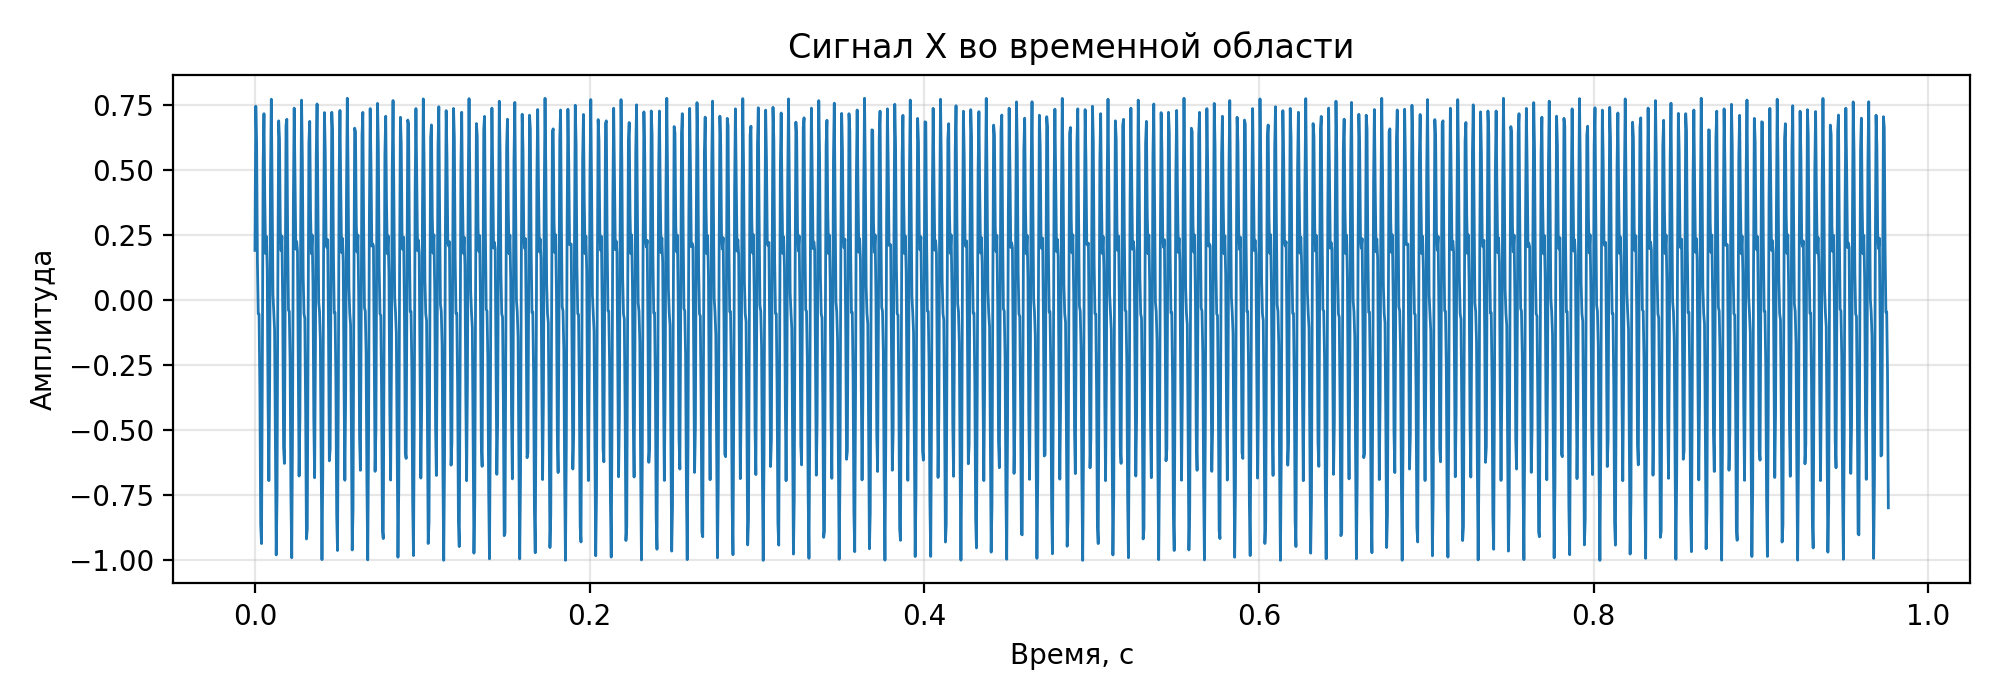
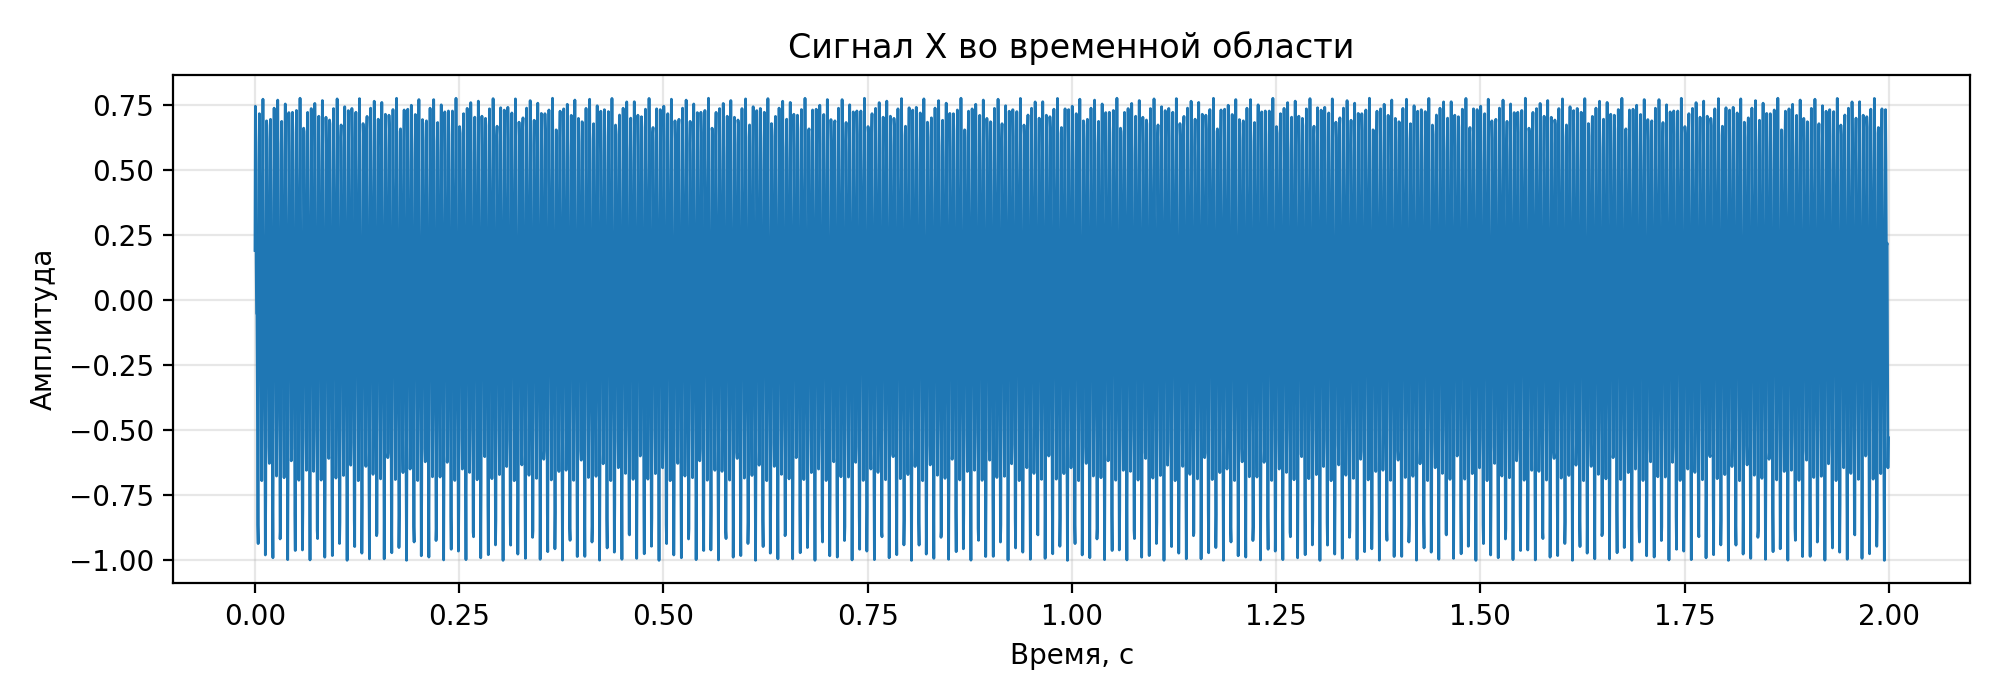
Explain convolution plotting issue

diff --git a/laba1/main.py b/laba1/main.py
@@ -17,6 +17,7 @@ from laba1.ops_numpy import (
 from laba1.plotting import (
     plot_amplitude_phase_spectrum,
     plot_benchmark,
+    plot_correlation_by_lag,
     plot_time_domain,
 )
 from laba1.signal_io import generate_periodic_signals, save_wav_mono_16
@@ -60,6 +61,8 @@ def run() -> None:
     x_pad = pad_to_power_of_two(signal_x)
     y_pad = pad_to_power_of_two(signal_y)
     conv_pad = pad_to_power_of_two(conv_manual)
+    linear_conv_length = len(signal_x) + len(signal_y) - 1
+    fft_conv_length = 1 << (linear_conv_length - 1).bit_length()
 
     x_manual_fft = fft_dif(x_pad)
     y_manual_fft = fft_dif(y_pad)
@@ -77,10 +80,34 @@ def run() -> None:
     y_numpy_ifft = ifft_numpy(y_numpy_fft)
     conv_numpy_ifft = ifft_numpy(conv_numpy_fft)
 
-    plot_time_domain(signal_x, SAMPLE_RATE, OUTPUT / "сигнал_x_временная_область.png", "Сигнал X во временной области")
-    plot_time_domain(signal_y, SAMPLE_RATE, OUTPUT / "сигнал_y_временная_область.png", "Сигнал Y во временной области")
-    plot_time_domain(conv_manual, SAMPLE_RATE, OUTPUT / "результат_свертки_временная_область.png", "Результат свертки во временной области")
-    plot_time_domain(corr_manual, SAMPLE_RATE, OUTPUT / "результат_корреляции_временная_область.png", "Результат корреляции во временной области")
+    plot_time_domain(
+        signal_x,
+        SAMPLE_RATE,
+        OUTPUT / "сигнал_x_временная_область.png",
+        "Сигнал X во временной области",
+        max_samples=None,
+    )
+    plot_time_domain(
+        signal_y,
+        SAMPLE_RATE,
+        OUTPUT / "сигнал_y_временная_область.png",
+        "Сигнал Y во временной области",
+        max_samples=None,
+    )
+    plot_time_domain(
+        conv_manual,
+        SAMPLE_RATE,
+        OUTPUT / "результат_свертки_временная_область.png",
+        "Результат свертки (полная длина N+M-1) во временной области",
+        max_samples=None,
+    )
+    plot_correlation_by_lag(
+        corr_manual,
+        len(signal_x),
+        len(signal_y),
+        OUTPUT / "результат_корреляции_сдвиг.png",
+        "Результат корреляции по оси сдвига (lag)",
+    )
 
     plot_amplitude_phase_spectrum(signal_x, SAMPLE_RATE, _manual_fft, OUTPUT / "сигнал_x_спектр.png", "Сигнал X")
     plot_amplitude_phase_spectrum(signal_y, SAMPLE_RATE, _manual_fft, OUTPUT / "сигнал_y_спектр.png", "Сигнал Y")
@@ -114,6 +141,17 @@ def run() -> None:
         "Сводка по лабораторной работе 1",
         f"Частота дискретизации: {SAMPLE_RATE} Гц",
         f"Длительность: {DURATION_SEC} с",
+        "",
+        "Длины сигналов и временные оси:",
+        f"N = {len(signal_x)}, M = {len(signal_y)}, N+M-1 = {linear_conv_length}",
+        f"Длительность X: {len(signal_x) / SAMPLE_RATE:.6f} с",
+        f"Длительность Y: {len(signal_y) / SAMPLE_RATE:.6f} с",
+        f"Длительность полной свертки: {len(conv_manual) / SAMPLE_RATE:.6f} с",
+        "",
+        "Zero-padding для свертки через БПФ:",
+        "Чтобы через БПФ получить линейную свертку (а не циклическую),",
+        "оба сигнала дополняются нулями до длины Lfft >= N+M-1.",
+        f"N+M-1 = {linear_conv_length}, выбранная длина БПФ Lfft = {fft_conv_length}",
         "",
         "Ошибки: ручная реализация vs NumPy",
         f"FFT(X): {_max_abs_error(x_manual_fft, x_numpy_fft):.6e}",

diff --git a/laba1/plotting.py b/laba1/plotting.py
@@ -23,10 +23,10 @@ def plot_time_domain(
     sample_rate: int,
     path: Path,
     title: str,
-    max_samples: int = 2000,
+    max_samples: int | None = None,
 ) -> None:
     _ensure_dir(path)
-    samples = min(max_samples, len(signal))
+    samples = len(signal) if max_samples is None else min(max_samples, len(signal))
     time_axis = np.arange(samples) / sample_rate
 
     plt.figure(figsize=(10, 3.5))
@@ -76,6 +76,35 @@ def plot_amplitude_phase_spectrum(
     plt.ylabel("arg(X(f)), рад")
     plt.grid(True, alpha=0.3)
 
+    plt.tight_layout()
+    plt.savefig(path, dpi=200)
+    plt.close()
+
+
+def plot_correlation_by_lag(
+    correlation: np.ndarray,
+    len_x: int,
+    len_y: int,
+    path: Path,
+    title: str,
+    max_points: int | None = None,
+) -> None:
+    _ensure_dir(path)
+    lags = np.arange(-(len_y - 1), len_x)
+
+    corr = correlation
+    lag_axis = lags
+    if max_points is not None and len(corr) > max_points:
+        step = int(np.ceil(len(corr) / max_points))
+        corr = corr[::step]
+        lag_axis = lags[::step]
+
+    plt.figure(figsize=(10, 3.5))
+    plt.plot(lag_axis, corr, linewidth=1.0)
+    plt.title(title)
+    plt.xlabel("Сдвиг (lag), отсчеты")
+    plt.ylabel("Амплитуда")
+    plt.grid(True, alpha=0.3)
     plt.tight_layout()
     plt.savefig(path, dpi=200)
     plt.close()

diff --git a/laba1/REPORT.md b/laba1/REPORT.md
@@ -20,6 +20,8 @@
    - Библиотечное: `numpy.fft.fft`, `numpy.fft.ifft`.
 4. Проверка теоремы Фурье для свертки/корреляции.
 5. Бенчмарк по нескольким значениям `N`.
+6. График корреляции строится по оси сдвига (lag), от отрицательных к положительным значениям.
+7. График полной свертки строится по полной временной оси длиной `N+M-1`.
 
 ## Основные формулы
 - Бабочка DIF БПФ:
@@ -30,10 +32,19 @@
 - Теорема свертки:
   - `x * y = IFFT(FFT(x) * FFT(y))`
 
+## Пояснение по длине полной свертки и zero-padding
+- Для сигналов длиной `N` и `M` длина полной линейной свертки равна `N+M-1`.
+- Поэтому временная ось результата свертки длиннее осей исходных сигналов.
+- При вычислении свертки через БПФ требуется дополнение нулями:
+  - если не делать padding, получится циклическая свертка;
+  - для линейной свертки выбирается длина `Lfft >= N+M-1`;
+  - обычно берется ближайшая степень двойки для эффективности БПФ.
+
 ## Артефакты
 Скрипт `python3 -m laba1.main` формирует в `laba1/output`:
 - `периодический_сигнал_1.wav`, `периодический_сигнал_2.wav`
 - `сигнал_после_свертки.wav`, `сигнал_после_корреляции.wav`
 - графики во временной области и спектры
+- `результат_корреляции_сдвиг.png` (корреляция по оси lag)
 - `сравнение_эффективности_алгоритмов.png`
 - `сводка_результатов.txt` с численными ошибками и временем выполнения.
